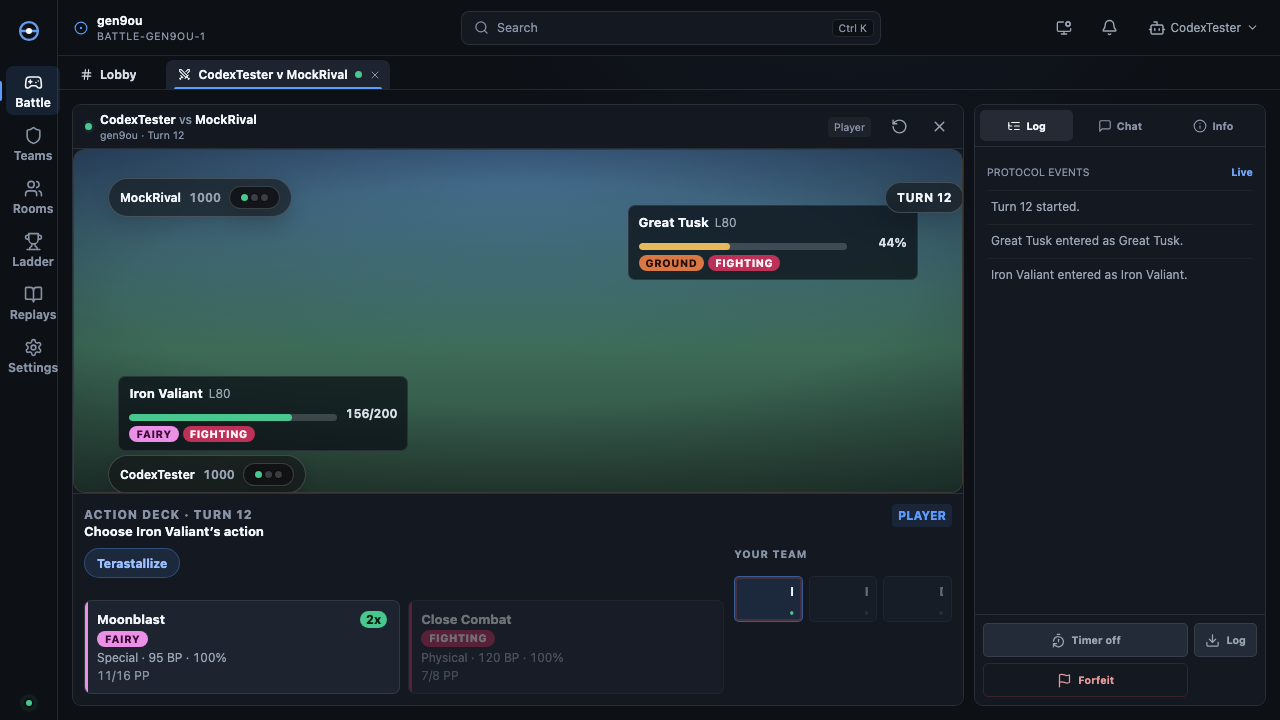
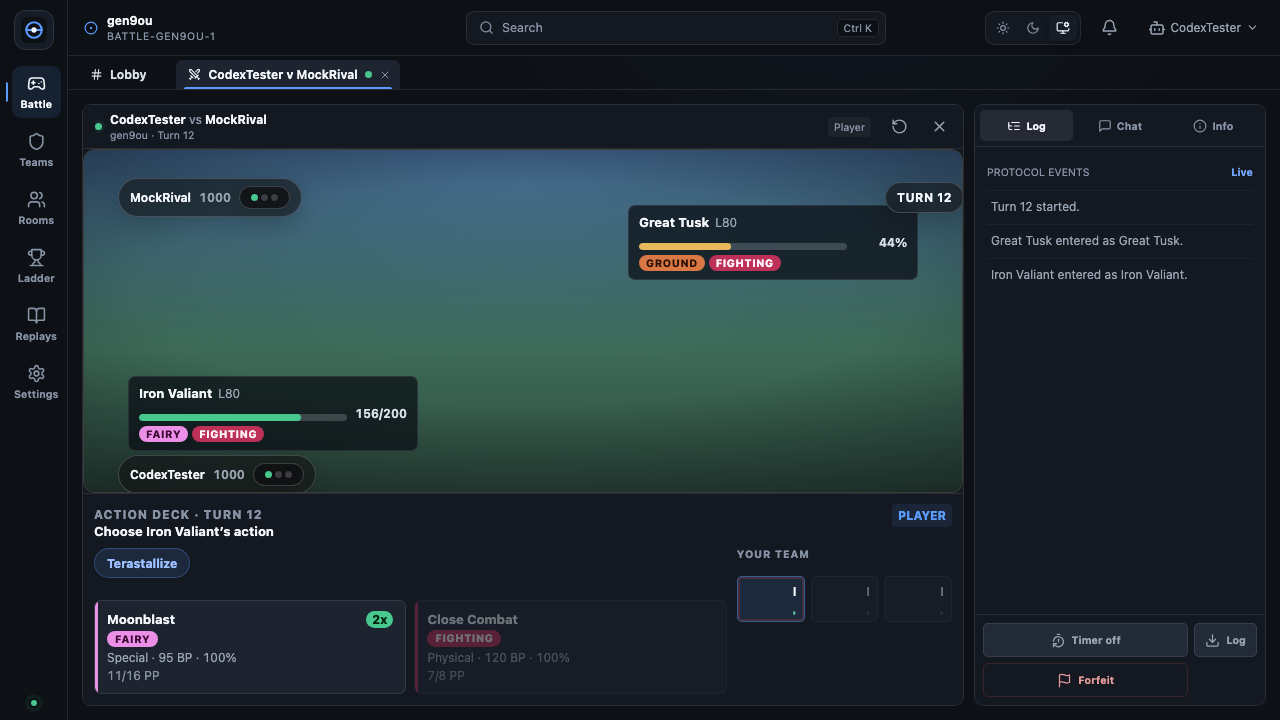
Theme picks from a visible segment; popovers respect the viewport
The topbar theme control is a three-option segmented radio (light /
dark / system, selected state visible) instead of a cycle button whose
meaning lived in a tooltip. Settings shows the same control; both drive
the same preference.

Select popovers become plain theme panels — the last of the cream
inverse styling and the workspace re-style layer are gone — and flip
upward when the viewport below cannot fit them, so the format picker at
the bottom of the battle deck no longer forces the page to grow under
it. Inside a side column the list anchors to the trigger's box, which
stops the set editor's species list from clipping outside the panel.

Switch tracks get solid per-theme colours (translucent lines washed out
under a white thumb). The rail widens to 68px with real breathing room,
themed brand mark, and consistent label sizing. Field HUD chips carry
comfortable insets at both corners.

diff --git a/src/styles/shell.css b/src/styles/shell.css
@@ -16,7 +16,7 @@ textarea:focus-visible,
 
 .arena-app {
   display: grid;
-  grid-template-columns: 58px minmax(0, 1fr);
+  grid-template-columns: 68px minmax(0, 1fr);
   width: 100%;
   height: 100svh;
   min-height: 0;
@@ -42,38 +42,43 @@ textarea:focus-visible,
 .brand-mark {
   display: grid;
   place-items: center;
-  width: 42px;
-  height: 42px;
-  margin-bottom: 14px;
-  border-radius: 10px;
+  width: 40px;
+  height: 40px;
+  margin-bottom: 16px;
+  background: var(--arena-panel);
+  border: 1px solid var(--arena-line);
+  border-radius: 12px;
+  transition: border-color var(--arena-fast) ease;
 }
 
+.brand-mark:hover { border-color: var(--arena-line-strong); }
+
 .brand-mark img {
-  width: 30px;
-  height: 30px;
-  filter: saturate(0.82);
+  width: 26px;
+  height: 26px;
 }
 
 .primary-nav {
   display: grid;
-  gap: 4px;
+  gap: 6px;
   width: 100%;
+  padding-inline: 6px;
 }
 
 .primary-nav-link {
   position: relative;
   display: grid;
   place-items: center;
-  gap: 2px;
-  min-height: 49px;
-  padding: 5px 2px;
+  gap: 3px;
+  min-height: 52px;
+  padding: 7px 2px;
   color: var(--arena-faint);
-  border-radius: 7px;
-  transition: color 140ms ease, background 140ms ease, transform 140ms ease;
+  border-radius: 9px;
+  transition: color 140ms ease, background 140ms ease;
 }
 
 .primary-nav-link span {
-  font-size: 12px;
+  font-size: 10.5px;
   font-weight: 650;
   line-height: 1;
 }
@@ -672,23 +677,34 @@ textarea:focus-visible,
 
 /* ── Topbar theme toggle ─────────────────────────────────────────────────── */
 
-.theme-toggle {
+.theme-segment {
+  display: inline-flex;
+  gap: 2px;
+  padding: 3px;
+  background: var(--arena-ink-2);
+  border: 1px solid var(--arena-line);
+  border-radius: 9px;
+}
+
+.theme-segment button {
   display: inline-flex;
   align-items: center;
   justify-content: center;
-  width: 34px;
-  min-height: 34px;
-  height: 34px;
-  color: var(--arena-muted);
+  width: 28px;
+  min-height: 26px;
+  height: 26px;
+  color: var(--arena-faint);
   background: transparent;
-  border: 1px solid transparent;
-  border-radius: 8px;
+  border: none;
+  border-radius: 6px;
   cursor: pointer;
   transition: color var(--arena-fast) ease, background var(--arena-fast) ease;
 }
 
-.theme-toggle:hover {
+.theme-segment button:hover { color: var(--arena-text); }
+
+.theme-segment button.is-selected {
   color: var(--arena-text);
-  background: var(--arena-hover);
-  border-color: var(--arena-line);
+  background: var(--arena-panel);
+  box-shadow: var(--arena-shadow-sm);
 }

diff --git a/src/styles/base.css b/src/styles/base.css
@@ -329,15 +329,31 @@ textarea:focus-visible,
   left: 0;
   z-index: 90;
   width: min(420px, calc(100vw - 36px));
-  max-height: min(440px, calc(100svh - 160px));
+  max-height: min(400px, calc(100svh - 160px));
   display: grid;
   grid-template-rows: auto minmax(0, 1fr);
   overflow: hidden;
-  color: var(--arena-dark-text);
-  background: var(--arena-inverse);
-  border: 1px solid rgba(31, 30, 27, 0.14);
+  color: var(--arena-text);
+  background: var(--arena-panel);
+  border: 1px solid var(--arena-line-strong);
   border-radius: 10px;
-  box-shadow: 0 24px 80px rgba(0, 0, 0, 0.28);
+  box-shadow: var(--arena-shadow);
+}
+
+/* Near the viewport bottom the list opens upward instead of forcing the
+   page to grow under it. */
+.select-popover.is-up {
+  top: auto;
+  bottom: calc(100% + 8px);
+}
+
+/* Inside a side column the list must stay inside the column: anchor to the
+   trigger's box and let long labels ellipsize. */
+.workspace-inspector .select-popover {
+  right: 0;
+  left: 0;
+  width: auto;
+  min-width: 0;
 }
 
 
@@ -346,8 +362,9 @@ textarea:focus-visible,
   display: flex;
   align-items: center;
   gap: 8px;
-  padding: 10px;
-  border-bottom: 1px solid rgba(80, 72, 60, 0.12);
+  padding: 10px 12px;
+  color: var(--arena-faint);
+  border-bottom: 1px solid var(--arena-line);
 }
 
 
@@ -355,7 +372,7 @@ textarea:focus-visible,
 .select-search input {
   min-width: 0;
   width: 100%;
-  color: var(--arena-dark-text);
+  color: var(--arena-text);
   background: transparent;
   border: 0;
   outline: 0;
@@ -1030,8 +1047,8 @@ textarea:focus-visible,
   width: 48px;
   height: 28px;
   /* Unchecked track must contrast the white thumb in both themes. */
-  background: var(--arena-line-strong);
-  border: 1px solid var(--arena-line);
+  background: var(--arena-track);
+  border: 1px solid transparent;
   border-radius: 999px;
   cursor: pointer;
   transition: background var(--arena-fast) ease;

diff --git a/src/screens/app-root.tsx b/src/screens/app-root.tsx
@@ -149,17 +149,25 @@ export function AppRoot() {
             </div>
             <CommandBar />
             <div className="topbar-actions">
-              <button
-                type="button"
-                className="theme-toggle"
-                aria-label={`Theme: ${theme}. Switch theme`}
-                title={`Theme: ${theme}`}
-                onClick={() => setTheme(theme === 'system' ? 'light' : theme === 'light' ? 'dark' : 'system')}
-              >
-                {theme === 'light' ? <Sun size={16} aria-hidden /> :
-                  theme === 'dark' ? <Moon size={16} aria-hidden /> :
-                  <MonitorCog size={16} aria-hidden />}
-              </button>
+              <div className="theme-segment" role="radiogroup" aria-label="Theme">
+                {([
+                  { value: 'light', label: 'Light theme', icon: Sun },
+                  { value: 'dark', label: 'Dark theme', icon: Moon },
+                  { value: 'system', label: 'Follow system theme', icon: MonitorCog },
+                ] as const).map(option => (
+                  <button
+                    key={option.value}
+                    type="button"
+                    role="radio"
+                    aria-checked={theme === option.value}
+                    aria-label={option.label}
+                    className={clsx(theme === option.value && 'is-selected')}
+                    onClick={() => setTheme(option.value)}
+                  >
+                    <option.icon size={14} aria-hidden />
+                  </button>
+                ))}
+              </div>
               <div className="notification-wrap">
                 <button
                   className={clsx('notification-button', notificationsOpen && 'is-active')}

diff --git a/src/components/searchable-select.tsx b/src/components/searchable-select.tsx
@@ -27,10 +27,19 @@ export function SearchableSelect({
   value?: string;
 }) {
   const [open, setOpen] = useState(false);
+  const [openUp, setOpenUp] = useState(false);
   const [query, setQuery] = useState('');
   const [activeIndex, setActiveIndex] = useState(0);
   const rootRef = useRef<HTMLDivElement>(null);
   const triggerRef = useRef<HTMLButtonElement>(null);
+
+  // Flip the list above the trigger when the viewport below cannot fit it —
+  // opening downward off-screen forced the page to grow under the list.
+  useEffect(() => {
+    if (!open) return;
+    const rect = triggerRef.current?.getBoundingClientRect();
+    if (rect) setOpenUp(window.innerHeight - rect.bottom < 360 && rect.top > 360);
+  }, [open]);
   const optionRefs = useRef<Array<HTMLButtonElement | null>>([]);
   const selected = options.find(option => option.value === value);
   const visibleOptions = useMemo(() => {
@@ -137,7 +146,7 @@ export function SearchableSelect({
       </button>
 
       {open && (
-        <div className="select-popover" role="listbox" aria-label={ariaLabel} tabIndex={-1}>
+        <div className={openUp ? "select-popover is-up" : "select-popover"} role="listbox" aria-label={ariaLabel} tabIndex={-1}>
           <label className="select-search">
             <Search size={15} aria-hidden />
             <input

diff --git a/src/styles/tokens.css b/src/styles/tokens.css
@@ -73,6 +73,10 @@
   --arena-inverse: #fffdf7;
   --arena-inverse-text: #1d1d1b;
 
+  /* Solid toggle-track colour — translucent lines wash out under a white
+     thumb. */
+  --arena-track: #3b4454;
+
   /* Motion. Reduced-motion collapses these to zero (see base.css). */
   --arena-fast: 120ms;
   --arena-base: 200ms;
@@ -121,6 +125,7 @@
 
   --arena-inverse: #1b212c;
   --arena-inverse-text: #f4f7fb;
+  --arena-track: #c3cbd7;
 
   --arena-shadow: 0 12px 32px rgb(15 23 42 / 16%);
   --arena-shadow-sm: 0 4px 14px rgb(15 23 42 / 10%);

diff --git a/src/styles/workspace.css b/src/styles/workspace.css
@@ -171,19 +171,6 @@
   line-height: 1.5;
 }
 
-.select-popover {
-  color: var(--arena-soft);
-  background: var(--arena-panel-strong);
-  border-color: var(--arena-line);
-  box-shadow: 0 20px 60px rgba(0, 0, 0, 0.5);
-}
-
-.select-search {
-  color: var(--arena-text);
-  background: var(--arena-ink-2);
-  border-color: var(--arena-line);
-}
-
 .select-section > span {
   color: var(--arena-faint);
 }
